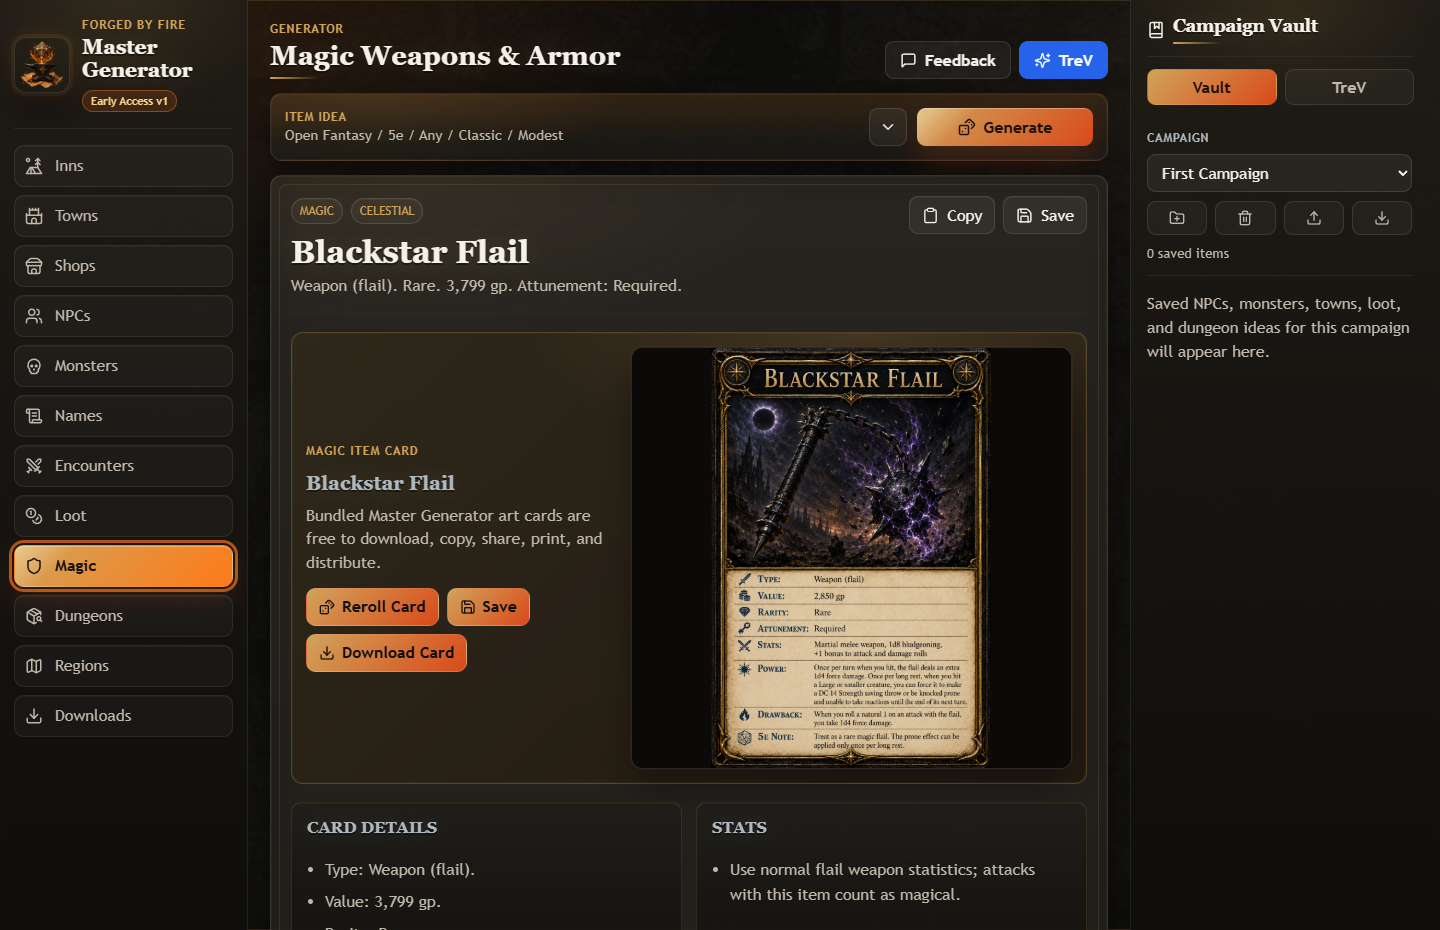
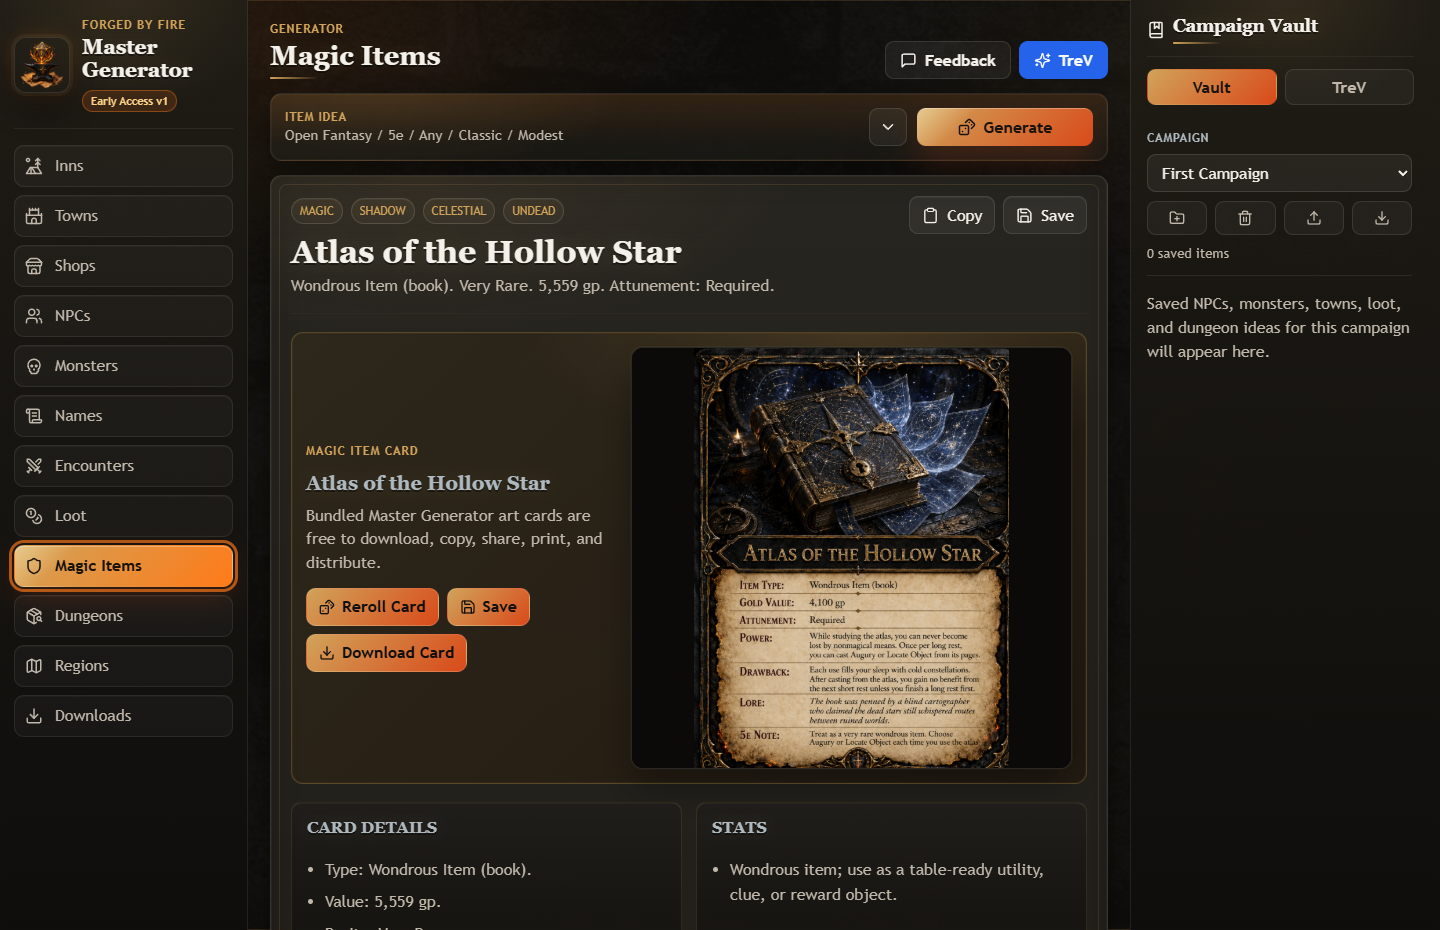
Feature Master Generator item screenshot on paid page

diff --git a/paid-software.html b/paid-software.html
@@ -57,7 +57,7 @@
             Master Generator creates campaign-ready NPCs, inns, towns, shops, monsters, encounters, treasure, magic items, dungeons, regions, maps, and TreV-assisted table ideas for fantasy game masters.
           </p>
           <div class="software-preview">
-            <img src="assets/screenshots/master-generator/master-generator-v2-trev.png" alt="Master Generator with TreV companion panel and current generator output" loading="lazy" />
+            <img src="assets/screenshots/master-generator/master-generator-v2-magic-items.png" alt="Master Generator magic item card with generated details and downloadable visual card" loading="lazy" />
           </div>
           <div class="card-actions">
             <a class="btn btn-primary" href="master-generator.html">View Details</a>
